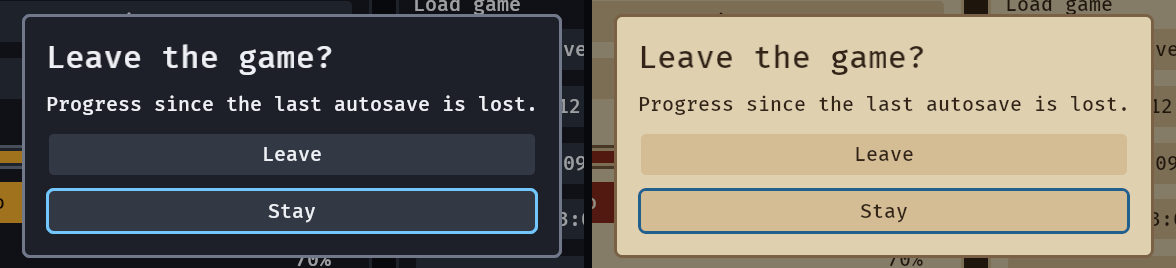
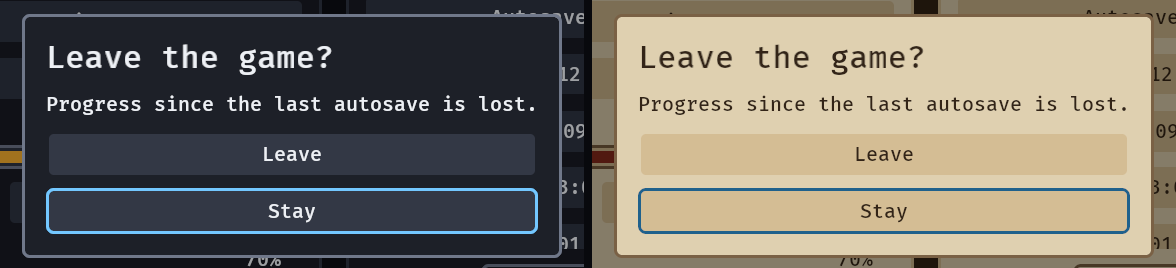
Media: cancel.gif, prompts.gif and dialog.png regenerated and the crops of tabs.gif and binding.gif moved for the Load game panel the Save as field widened (frames byte-identical)

diff --git a/docs/media/README.md b/docs/media/README.md
@@ -14,11 +14,11 @@ sets the window, `GOOEY_SKIN` the preset, and `GOOEY_KEYS` stages the input each
 | `gallery.png` | the still: Play/Options/Quit, a health meter, the Audio, Display and Controls tabs with Audio lit over the Volume slider and the Subtitles switch, the Load game list four and a half rows tall with its rail and the ring on `Chapel, 00:12`, the Save as field under the list showing its hint "Name this save", the legend "Enter Select, Esc Back" in the bottom-left corner and one toast at the bottom right | `GOOEY_FRAMES=200 GOOEY_SHOT=docs/media/gallery.png GOOEY_KEY_EVERY=14 GOOEY_KEYS=slots,down,down,down,pagedown,toast GOOEY_SIZE=1280x720 cargo run --release --example gallery` | 2026-11-01 | 0.7.0 |
 | `gallery.gif` | the hero (5.9 s, 960×540): the ring walks down the save slots from Autosave to `Mill, 03:02`, Page Down moves it to `Chapel, 00:12`, the meter drains, and a "Game saved" toast appears; the Save as field stands under the list and the legend "Enter Select, Esc Back" in the bottom-left corner throughout | the same run with `GOOEY_SHOT_DIR=/tmp/gooey-gif GOOEY_SHOT_FROM=30 GOOEY_SHOT_EVERY=2` (make the directory first: the capture does not), then `ffmpeg -framerate 15 -pattern_type glob -i '/tmp/gooey-gif/f_*.png' -vf "fps=15,scale=960:-1:flags=lanczos,split[a][b];[a]palettegen=stats_mode=diff[p];[b][p]paletteuse=dither=bayer" -loop 0 docs/media/gallery.gif` (a glob: the capture can skip a frame number) | 2026-11-01 | 0.7.0 |
 | `text-input.gif` | text input (5.0 s, 600×560, the right panel and the window's bottom-right corner): the Save as field rests as a quiet outline over the muted hint "Name this save"; its frame turns blue the moment it has focus and a caret follows "Aria" as it is typed; Enter shows the toast "Saved as Aria" (bottom right) and the field keeps focus; Up moves the ring onto the save slot `Cellar, 01:48` and the field goes back to its quiet outline with "Aria" kept | `GOOEY_HEALTH=60 GOOEY_FRAMES=170 GOOEY_KEY_EVERY=12 GOOEY_KEYS=name,type=Aria,enter,up GOOEY_SIZE=1280x720 GOOEY_SHOT=/tmp/text-input.png GOOEY_SHOT_DIR=/tmp/gooey-text GOOEY_SHOT_FROM=26 GOOEY_SHOT_EVERY=2 cargo run --release --example gallery` (make the directory first), then `ffmpeg -framerate 15 -pattern_type glob -i '/tmp/gooey-text/f_*.png' -vf "crop=600:560:680:150,fps=15,split[a][b];[a]palettegen=stats_mode=diff[p];[b][p]paletteuse=dither=bayer" -loop 0 docs/media/text-input.gif` | 2026-11-01 | 0.7.0 |
-| `tabs.gif` | the tabs (4.7 s, 520×540, the settings panel only): the ring moves from Quit onto the lit Audio tab; Right turns to Display, Right to Controls, Right wraps to Audio; Down enters the page on the Volume slider; Ctrl+PageDown turns to Display and to Controls with the ring landing on Quality and on Jump (the first of the Controls page's two rebinding rows); Ctrl+PageUp back to Display | `GOOEY_HEALTH=60 GOOEY_FRAMES=190 GOOEY_KEY_EVERY=16 GOOEY_KEYS=down,down,down,right,right,right,down,nexttab,nexttab,prevtab GOOEY_SIZE=1280x720 GOOEY_SHOT=/tmp/tabs.png GOOEY_SHOT_DIR=/tmp/gooey-tabs GOOEY_SHOT_FROM=56 GOOEY_SHOT_EVERY=2 cargo run --release --example gallery`, then `ffmpeg -framerate 15 -pattern_type glob -i '/tmp/gooey-tabs/f_*.png' -vf "crop=520:540:224:90,fps=15,split[a][b];[a]palettegen=stats_mode=diff[p];[b][p]paletteuse=dither=bayer" -loop 0 docs/media/tabs.gif` | 2026-11-01 | main after 0.4.0 |
-| `binding.gif` | rebinding (4.7 s, 520×290, the lower half of the settings panel): the Controls tab is clicked, Down puts the ring on Jump (a keycap saying Space), Enter lights the keycap amber with "Press a key, Esc exits", Q turns it to Q (the gallery toasts "Jump is Q" at the window's corner, outside the crop), Down moves to Use (A), Enter lights its keycap with "Press a button, Menu exits" and Escape puts it back, still A | `GOOEY_HEALTH=60 GOOEY_FRAMES=162 GOOEY_KEY_EVERY=18 GOOEY_KEYS=tab3,down,enter,q,down,enter,escape GOOEY_SIZE=1280x720 GOOEY_SHOT=/tmp/binding.png GOOEY_SHOT_DIR=/tmp/gooey-binding GOOEY_SHOT_FROM=26 GOOEY_SHOT_EVERY=2 cargo run --release --example gallery`, then `ffmpeg -framerate 15 -pattern_type glob -i '/tmp/gooey-binding/f_*.png' -vf "crop=520:290:216:330,fps=15,split[a][b];[a]palettegen=stats_mode=diff[p];[b][p]paletteuse=dither=bayer" -loop 0 docs/media/binding.gif` | 2026-11-01 | main after 0.4.0 |
-| `cancel.gif` | Back (4.1 s, 848×540, both panels): the ring moves onto Options and then Quit, Enter opens the dialog over the dimmed screen (the title "Leave the game?", a line of body under it and the choices Leave and Stay, the ring on Stay), and Escape closes it with the ring back on Quit (the close a pad's B makes too) | `GOOEY_HEALTH=60 GOOEY_FRAMES=142 GOOEY_KEY_EVERY=18 GOOEY_KEYS=untip,down,down,enter,escape GOOEY_SIZE=1280x720 GOOEY_SHOT=/tmp/cancel.png GOOEY_SHOT_DIR=/tmp/gooey-cancel GOOEY_SHOT_FROM=26 GOOEY_SHOT_EVERY=2 cargo run --release --example gallery`, then `ffmpeg -framerate 15 -pattern_type glob -i '/tmp/gooey-cancel/f_*.png' -vf "crop=848:540:216:90,fps=15,split[a][b];[a]palettegen=stats_mode=diff[p];[b][p]paletteuse=dither=bayer" -loop 0 docs/media/cancel.gif` (`untip` takes Options' tooltip off first, so the first beat is a still screen) | 2026-10-31 | main after 0.4.0 (the release after it) |
-| `prompts.gif` | prompts (7.7 s, 920×490, the lower left of the window): the legend "Enter Select, Esc Back" in rounded keycaps; a pad's X button (nothing acts on it) turns them round, "A Select, B Back"; Q turns them back; the pad again, Q again; then Down, Down and Enter open the Quit dialog, whose own legend stands above the dimmed screen at the same corner; a pad press turns both round and Escape closes the dialog (keys again) | `GOOEY_HEALTH=60 GOOEY_FRAMES=250 GOOEY_KEY_EVERY=22 GOOEY_KEYS=plug,pad,q,pad,q,down,down,enter,pad,escape GOOEY_SIZE=1280x720 GOOEY_SHOT=/tmp/prompts.png GOOEY_SHOT_DIR=/tmp/gooey-prompts GOOEY_SHOT_FROM=26 GOOEY_SHOT_EVERY=2 cargo run --release --example gallery` (make `/tmp/gooey-prompts` first), then `ffmpeg -framerate 15 -pattern_type glob -i '/tmp/gooey-prompts/f_*.png' -vf "crop=920:490:30:230,fps=15,split[a][b];[a]palettegen=stats_mode=diff[p];[b][p]paletteuse=dither=bayer" -loop 0 docs/media/prompts.gif` | 2026-10-31 | 0.6.0 |
-| `dialog.png` | the Quit dialog in both presets (1176×268, two crops of 584×268 side by side): the title, a line of body and the choices Leave and Stay in a framed panel 540 px wide over the dimmed screen, the ring on Stay; dark on the left, parchment on the right | `GOOEY_HEALTH=60 GOOEY_FRAMES=120 GOOEY_KEYS=down,down,enter GOOEY_SIZE=1280x720 GOOEY_SHOT=/tmp/dialog-dark.png cargo run --release --example gallery`, the same with `GOOEY_SKIN=parchment` and `GOOEY_SHOT=/tmp/dialog-parchment.png`, then `magick /tmp/dialog-dark.png -crop 584x268+348+224 +repage /tmp/d1.png`, the same crop of the parchment still into `/tmp/d2.png`, and `magick /tmp/d1.png \( -size 8x268 xc:'#08090d' \) /tmp/d2.png +append -alpha off docs/media/dialog.png` | 2026-10-31 | main after 0.4.0 (the release after it) |
+| `tabs.gif` | the tabs (4.7 s, 520×540, the settings panel only): the ring moves from Quit onto the lit Audio tab; Right turns to Display, Right to Controls, Right wraps to Audio; Down enters the page on the Volume slider; Ctrl+PageDown turns to Display and to Controls with the ring landing on Quality and on Jump (the first of the Controls page's two rebinding rows); Ctrl+PageUp back to Display | `GOOEY_HEALTH=60 GOOEY_FRAMES=190 GOOEY_KEY_EVERY=16 GOOEY_KEYS=down,down,down,right,right,right,down,nexttab,nexttab,prevtab GOOEY_SIZE=1280x720 GOOEY_SHOT=/tmp/tabs.png GOOEY_SHOT_DIR=/tmp/gooey-tabs GOOEY_SHOT_FROM=56 GOOEY_SHOT_EVERY=2 cargo run --release --example gallery`, then `ffmpeg -framerate 15 -pattern_type glob -i '/tmp/gooey-tabs/f_*.png' -vf "crop=520:540:174:90,fps=15,split[a][b];[a]palettegen=stats_mode=diff[p];[b][p]paletteuse=dither=bayer" -loop 0 docs/media/tabs.gif` (the crop's x is where the settings panel stands: the Save as field widened the Load game panel, so the pair moved 50 px left; the frames are byte-identical to the file from before) | 2026-11-01 | 0.7.0 |
+| `binding.gif` | rebinding (4.7 s, 520×290, the lower half of the settings panel): the Controls tab is clicked, Down puts the ring on Jump (a keycap saying Space), Enter lights the keycap amber with "Press a key, Esc exits", Q turns it to Q (the gallery toasts "Jump is Q" at the window's corner, outside the crop), Down moves to Use (A), Enter lights its keycap with "Press a button, Menu exits" and Escape puts it back, still A | `GOOEY_HEALTH=60 GOOEY_FRAMES=162 GOOEY_KEY_EVERY=18 GOOEY_KEYS=tab3,down,enter,q,down,enter,escape GOOEY_SIZE=1280x720 GOOEY_SHOT=/tmp/binding.png GOOEY_SHOT_DIR=/tmp/gooey-binding GOOEY_SHOT_FROM=26 GOOEY_SHOT_EVERY=2 cargo run --release --example gallery`, then `ffmpeg -framerate 15 -pattern_type glob -i '/tmp/gooey-binding/f_*.png' -vf "crop=520:290:166:330,fps=15,split[a][b];[a]palettegen=stats_mode=diff[p];[b][p]paletteuse=dither=bayer" -loop 0 docs/media/binding.gif` (the crop's x follows the settings panel, 50 px left of where it stood before the Save as field; the frames are byte-identical to the file from before) | 2026-11-01 | 0.7.0 |
+| `cancel.gif` | Back (4.1 s, 948×540, both panels): the ring moves onto Options and then Quit, Enter opens the dialog over the dimmed screen (the title "Leave the game?", a line of body under it and the choices Leave and Stay, the ring on Stay), and Escape closes it with the ring back on Quit (the close a pad's B makes too) | `GOOEY_HEALTH=60 GOOEY_FRAMES=142 GOOEY_KEY_EVERY=18 GOOEY_KEYS=untip,down,down,enter,escape GOOEY_SIZE=1280x720 GOOEY_SHOT=/tmp/cancel.png GOOEY_SHOT_DIR=/tmp/gooey-cancel GOOEY_SHOT_FROM=26 GOOEY_SHOT_EVERY=2 cargo run --release --example gallery`, then `ffmpeg -framerate 15 -pattern_type glob -i '/tmp/gooey-cancel/f_*.png' -vf "crop=948:540:166:90,fps=15,split[a][b];[a]palettegen=stats_mode=diff[p];[b][p]paletteuse=dither=bayer" -loop 0 docs/media/cancel.gif` (`untip` takes Options' tooltip off first, so the first beat is a still screen; 100 px wider than before, for the Load game panel that now holds the Save as field) | 2026-11-01 | 0.7.0 |
+| `prompts.gif` | prompts (7.7 s, 920×490, the lower left of the window): the legend "Enter Select, Esc Back" in rounded keycaps; a pad's X button (nothing acts on it) turns them round, "A Select, B Back"; Q turns them back; the pad again, Q again; then Down, Down and Enter open the Quit dialog, whose own legend stands above the dimmed screen at the same corner; a pad press turns both round and Escape closes the dialog (keys again) | `GOOEY_HEALTH=60 GOOEY_FRAMES=250 GOOEY_KEY_EVERY=22 GOOEY_KEYS=plug,pad,q,pad,q,down,down,enter,pad,escape GOOEY_SIZE=1280x720 GOOEY_SHOT=/tmp/prompts.png GOOEY_SHOT_DIR=/tmp/gooey-prompts GOOEY_SHOT_FROM=26 GOOEY_SHOT_EVERY=2 cargo run --release --example gallery` (make `/tmp/gooey-prompts` first), then `ffmpeg -framerate 15 -pattern_type glob -i '/tmp/gooey-prompts/f_*.png' -vf "crop=920:490:30:230,fps=15,split[a][b];[a]palettegen=stats_mode=diff[p];[b][p]paletteuse=dither=bayer" -loop 0 docs/media/prompts.gif` (the right edge of the crop cuts the Load game panel and its Save as field, as it cut the list before) | 2026-11-01 | 0.7.0 |
+| `dialog.png` | the Quit dialog in both presets (1176×268, two crops of 584×268 side by side): the title, a line of body and the choices Leave and Stay in a framed panel 540 px wide over the dimmed screen, the ring on Stay; dark on the left, parchment on the right | `GOOEY_HEALTH=60 GOOEY_FRAMES=120 GOOEY_KEYS=down,down,enter GOOEY_SIZE=1280x720 GOOEY_SHOT=/tmp/dialog-dark.png cargo run --release --example gallery`, the same with `GOOEY_SKIN=parchment` and `GOOEY_SHOT=/tmp/dialog-parchment.png`, then `magick /tmp/dialog-dark.png -crop 584x268+348+224 +repage /tmp/d1.png`, the same crop of the parchment still into `/tmp/d2.png`, and `magick /tmp/d1.png \( -size 8x268 xc:'#08090d' \) /tmp/d2.png +append -alpha off docs/media/dialog.png` | 2026-11-01 | 0.7.0 |
 
 A capture is one run of the example; the `gooey: frames <n> mean_ms <x>` line it prints is the frame
 time at that size, and the `gooey: kept <n> frames in <dir>` line says how many frames a GIF got.
